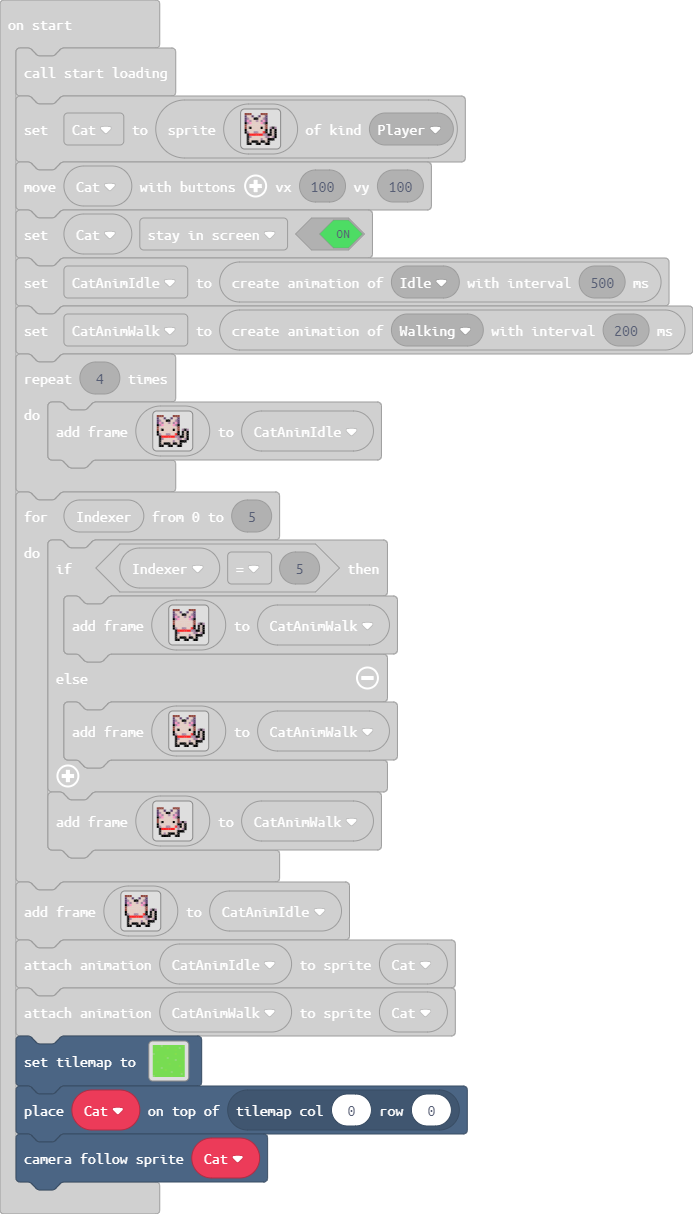
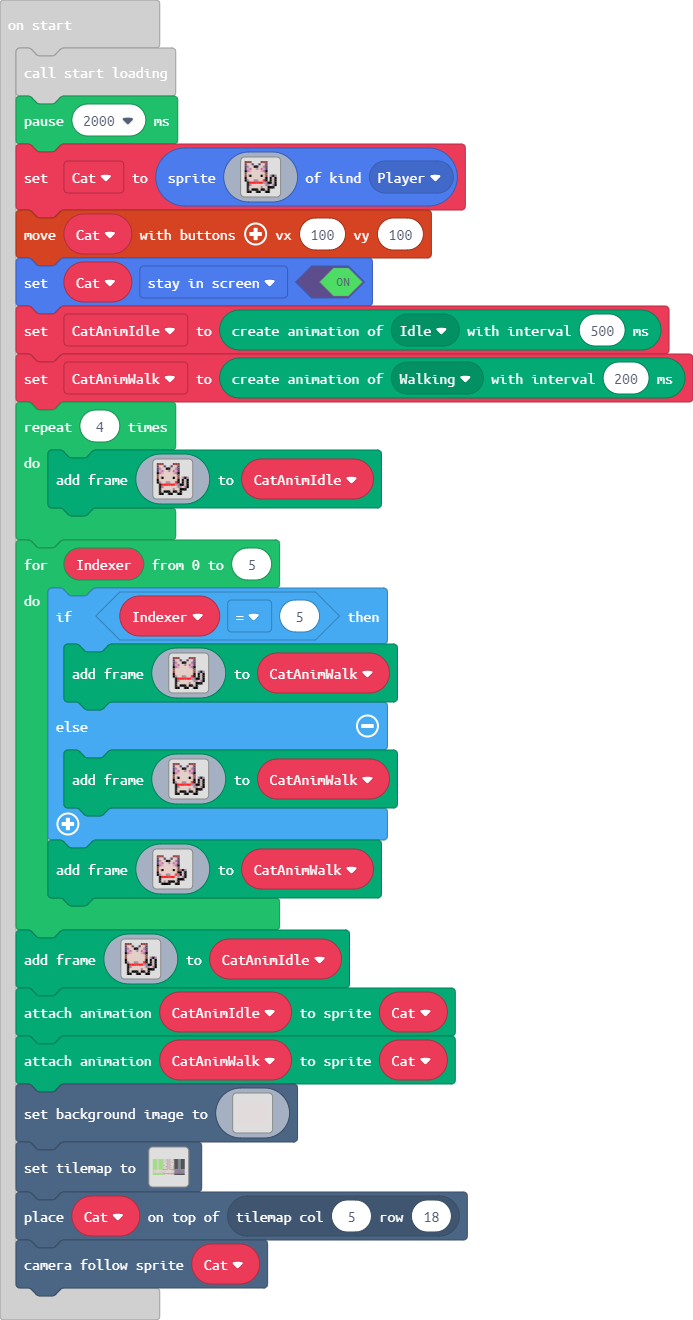
Update main.blocks, main.ts

diff --git a/main.ts b/main.ts
@@ -45,6 +45,44 @@ namespace myTiles {
 7 7 7 7 7 7 7 7 7 7 7 7 7 7 7 7 
 7 7 7 7 7 7 7 7 7 7 7 7 7 7 7 7 
 `
+    //% blockIdentity=images._tile
+    export const tile2 = img`
+f f f f f f f f f f f f f f f f 
+f f f f f f f f f f f f f f f f 
+f f f f f f f f f f f f f f f f 
+f f f f f f f f f f f f f f f f 
+f f f f f f f f f f f f f f f f 
+f f f f f f f f f f f f f f f f 
+f f f f f f f f f f f f f f f f 
+f f f f f f f f f f f f f f f f 
+f f f f f f f f f f f f f f f f 
+f f f f f f f f f f f f f f f f 
+f f f f f f f f f f f f f f f f 
+f f f f f f f f f f f f f f f f 
+f f f f f f f f f f f f f f f f 
+f f f f f f f f f f f f f f f f 
+f f f f f f f f f f f f f f f f 
+f f f f f f f f f f f f f f f f 
+`
+    //% blockIdentity=images._tile
+    export const tile3 = img`
+d d f f f f f f f f f f f f f f 
+d d d d d f f f f f f f f f f f 
+d f f f f f f f f f f f f f f f 
+d d f f f f f f f f f f f f f f 
+d f f f f f f f f f f f f f f f 
+d f f f f f f f f f f f f f f f 
+d d d f f f f f f f f f f f f f 
+d d f f f f f f f f f f f f f f 
+d f f f f f f f f f f f f f f f 
+d d d d d f f f f f f f f f f f 
+d d d f f f f f f f f f f f f f 
+d d d d f f f f f f f f f f f f 
+d d f f f f f f f f f f f f f f 
+d f f f f f f f f f f f f f f f 
+d d f f f f f f f f f f f f f f 
+d d d d f f f f f f f f f f f f 
+`
 }
 function start_loading () {
     scene.setBackgroundImage(img`
@@ -171,6 +209,7 @@ d d d d d d d d d d d d d d d d d d d d d d d d d d d d d d d d d d d d d d d d 
 `)
 }
 start_loading()
+pause(2000)
 let Cat = sprites.create(img`
 e e e . . . . e e e . . . . 
 c d d c . . c d d c . . . . 
@@ -280,30 +319,160 @@ f b d d b b d d 2 f . f d f
 `)
 animation.attachAnimation(Cat, CatAnimIdle)
 animation.attachAnimation(Cat, CatAnimWalk)
+scene.setBackgroundImage(img`
+d d d d d d d d d d d d d d d d d d d d d d d d d d d d d d d d d d d d d d d d d d d d d d d d d d d d d d d d d d d d d d d d d d d d d d d d d d d d d d d d d d d d d d d d d d d d d d d d d d d d d d d d d d d d d d d d d d d d d d d d d d d d d d d d d d d d d d d d d d d d d d d d d d d d d d d d d d d d d d d d 
+d d d d d d d d d d d d d d d d d d d d d d d d d d d d d d d d d d d d d d d d d d d d d d d d d d d d d d d d d d d d d d d d d d d d d d d d d d d d d d d d d d d d d d d d d d d d d d d d d d d d d d d d d d d d d d d d d d d d d d d d d d d d d d d d d d d d d d d d d d d d d d d d d d d d d d d d d d d d d d d d 
+d d d d d d d d d d d d d d d d d d d d d d d d d d d d d d d d d d d d d d d d d d d d d d d d d d d d d d d d d d d d d d d d d d d d d d d d d d d d d d d d d d d d d d d d d d d d d d d d d d d d d d d d d d d d d d d d d d d d d d d d d d d d d d d d d d d d d d d d d d d d d d d d d d d d d d d d d d d d d d d d 
+d d d d d d d d d d d d d d d d d d d d d d d d d d d d d d d d d d d d d d d d d d d d d d d d d d d d d d d d d d d d d d d d d d d d d d d d d d d d d d d d d d d d d d d d d d d d d d d d d d d d d d d d d d d d d d d d d d d d d d d d d d d d d d d d d d d d d d d d d d d d d d d d d d d d d d d d d d d d d d d d 
+d d d d d d d d d d d d d d d d d d d d d d d d d d d d d d d d d d d d d d d d d d d d d d d d d d d d d d d d d d d d d d d d d d d d d d d d d d d d d d d d d d d d d d d d d d d d d d d d d d d d d d d d d d d d d d d d d d d d d d d d d d d d d d d d d d d d d d d d d d d d d d d d d d d d d d d d d d d d d d d d 
+d d d d d d d d d d d d d d d d d d d d d d d d d d d d d d d d d d d d d d d d d d d d d d d d d d d d d d d d d d d d d d d d d d d d d d d d d d d d d d d d d d d d d d d d d d d d d d d d d d d d d d d d d d d d d d d d d d d d d d d d d d d d d d d d d d d d d d d d d d d d d d d d d d d d d d d d d d d d d d d d 
+d d d d d d d d d d d d d d d d d d d d d d d d d d d d d d d d d d d d d d d d d d d d d d d d d d d d d d d d d d d d d d d d d d d d d d d d d d d d d d d d d d d d d d d d d d d d d d d d d d d d d d d d d d d d d d d d d d d d d d d d d d d d d d d d d d d d d d d d d d d d d d d d d d d d d d d d d d d d d d d d 
+d d d d d d d d d d d d d d d d d d d d d d d d d d d d d d d d d d d d d d d d d d d d d d d d d d d d d d d d d d d d d d d d d d d d d d d d d d d d d d d d d d d d d d d d d d d d d d d d d d d d d d d d d d d d d d d d d d d d d d d d d d d d d d d d d d d d d d d d d d d d d d d d d d d d d d d d d d d d d d d d 
+d d d d d d d d d d d d d d d d d d d d d d d d d d d d d d d d d d d d d d d d d d d d d d d d d d d d d d d d d d d d d d d d d d d d d d d d d d d d d d d d d d d d d d d d d d d d d d d d d d d d d d d d d d d d d d d d d d d d d d d d d d d d d d d d d d d d d d d d d d d d d d d d d d d d d d d d d d d d d d d d 
+d d d d d d d d d d d d d d d d d d d d d d d d d d d d d d d d d d d d d d d d d d d d d d d d d d d d d d d d d d d d d d d d d d d d d d d d d d d d d d d d d d d d d d d d d d d d d d d d d d d d d d d d d d d d d d d d d d d d d d d d d d d d d d d d d d d d d d d d d d d d d d d d d d d d d d d d d d d d d d d d 
+d d d d d d d d d d d d d d d d d d d d d d d d d d d d d d d d d d d d d d d d d d d d d d d d d d d d d d d d d d d d d d d d d d d d d d d d d d d d d d d d d d d d d d d d d d d d d d d d d d d d d d d d d d d d d d d d d d d d d d d d d d d d d d d d d d d d d d d d d d d d d d d d d d d d d d d d d d d d d d d d 
+d d d d d d d d d d d d d d d d d d d d d d d d d d d d d d d d d d d d d d d d d d d d d d d d d d d d d d d d d d d d d d d d d d d d d d d d d d d d d d d d d d d d d d d d d d d d d d d d d d d d d d d d d d d d d d d d d d d d d d d d d d d d d d d d d d d d d d d d d d d d d d d d d d d d d d d d d d d d d d d d 
+d d d d d d d d d d d d d d d d d d d d d d d d d d d d d d d d d d d d d d d d d d d d d d d d d d d d d d d d d d d d d d d d d d d d d d d d d d d d d d d d d d d d d d d d d d d d d d d d d d d d d d d d d d d d d d d d d d d d d d d d d d d d d d d d d d d d d d d d d d d d d d d d d d d d d d d d d d d d d d d d 
+d d d d d d d d d d d d d d d d d d d d d d d d d d d d d d d d d d d d d d d d d d d d d d d d d d d d d d d d d d d d d d d d d d d d d d d d d d d d d d d d d d d d d d d d d d d d d d d d d d d d d d d d d d d d d d d d d d d d d d d d d d d d d d d d d d d d d d d d d d d d d d d d d d d d d d d d d d d d d d d d 
+d d d d d d d d d d d d d d d d d d d d d d d d d d d d d d d d d d d d d d d d d d d d d d d d d d d d d d d d d d d d d d d d d d d d d d d d d d d d d d d d d d d d d d d d d d d d d d d d d d d d d d d d d d d d d d d d d d d d d d d d d d d d d d d d d d d d d d d d d d d d d d d d d d d d d d d d d d d d d d d d 
+d d d d d d d d d d d d d d d d d d d d d d d d d d d d d d d d d d d d d d d d d d d d d d d d d d d d d d d d d d d d d d d d d d d d d d d d d d d d d d d d d d d d d d d d d d d d d d d d d d d d d d d d d d d d d d d d d d d d d d d d d d d d d d d d d d d d d d d d d d d d d d d d d d d d d d d d d d d d d d d d 
+d d d d d d d d d d d d d d d d d d d d d d d d d d d d d d d d d d d d d d d d d d d d d d d d d d d d d d d d d d d d d d d d d d d d d d d d d d d d d d d d d d d d d d d d d d d d d d d d d d d d d d d d d d d d d d d d d d d d d d d d d d d d d d d d d d d d d d d d d d d d d d d d d d d d d d d d d d d d d d d d 
+d d d d d d d d d d d d d d d d d d d d d d d d d d d d d d d d d d d d d d d d d d d d d d d d d d d d d d d d d d d d d d d d d d d d d d d d d d d d d d d d d d d d d d d d d d d d d d d d d d d d d d d d d d d d d d d d d d d d d d d d d d d d d d d d d d d d d d d d d d d d d d d d d d d d d d d d d d d d d d d d 
+d d d d d d d d d d d d d d d d d d d d d d d d d d d d d d d d d d d d d d d d d d d d d d d d d d d d d d d d d d d d d d d d d d d d d d d d d d d d d d d d d d d d d d d d d d d d d d d d d d d d d d d d d d d d d d d d d d d d d d d d d d d d d d d d d d d d d d d d d d d d d d d d d d d d d d d d d d d d d d d d 
+d d d d d d d d d d d d d d d d d d d d d d d d d d d d d d d d d d d d d d d d d d d d d d d d d d d d d d d d d d d d d d d d d d d d d d d d d d d d d d d d d d d d d d d d d d d d d d d d d d d d d d d d d d d d d d d d d d d d d d d d d d d d d d d d d d d d d d d d d d d d d d d d d d d d d d d d d d d d d d d d 
+d d d d d d d d d d d d d d d d d d d d d d d d d d d d d d d d d d d d d d d d d d d d d d d d d d d d d d d d d d d d d d d d d d d d d d d d d d d d d d d d d d d d d d d d d d d d d d d d d d d d d d d d d d d d d d d d d d d d d d d d d d d d d d d d d d d d d d d d d d d d d d d d d d d d d d d d d d d d d d d d 
+d d d d d d d d d d d d d d d d d d d d d d d d d d d d d d d d d d d d d d d d d d d d d d d d d d d d d d d d d d d d d d d d d d d d d d d d d d d d d d d d d d d d d d d d d d d d d d d d d d d d d d d d d d d d d d d d d d d d d d d d d d d d d d d d d d d d d d d d d d d d d d d d d d d d d d d d d d d d d d d d 
+d d d d d d d d d d d d d d d d d d d d d d d d d d d d d d d d d d d d d d d d d d d d d d d d d d d d d d d d d d d d d d d d d d d d d d d d d d d d d d d d d d d d d d d d d d d d d d d d d d d d d d d d d d d d d d d d d d d d d d d d d d d d d d d d d d d d d d d d d d d d d d d d d d d d d d d d d d d d d d d d 
+d d d d d d d d d d d d d d d d d d d d d d d d d d d d d d d d d d d d d d d d d d d d d d d d d d d d d d d d d d d d d d d d d d d d d d d d d d d d d d d d d d d d d d d d d d d d d d d d d d d d d d d d d d d d d d d d d d d d d d d d d d d d d d d d d d d d d d d d d d d d d d d d d d d d d d d d d d d d d d d d 
+d d d d d d d d d d d d d d d d d d d d d d d d d d d d d d d d d d d d d d d d d d d d d d d d d d d d d d d d d d d d d d d d d d d d d d d d d d d d d d d d d d d d d d d d d d d d d d d d d d d d d d d d d d d d d d d d d d d d d d d d d d d d d d d d d d d d d d d d d d d d d d d d d d d d d d d d d d d d d d d d 
+d d d d d d d d d d d d d d d d d d d d d d d d d d d d d d d d d d d d d d d d d d d d d d d d d d d d d d d d d d d d d d d d d d d d d d d d d d d d d d d d d d d d d d d d d d d d d d d d d d d d d d d d d d d d d d d d d d d d d d d d d d d d d d d d d d d d d d d d d d d d d d d d d d d d d d d d d d d d d d d d 
+d d d d d d d d d d d d d d d d d d d d d d d d d d d d d d d d d d d d d d d d d d d d d d d d d d d d d d d d d d d d d d d d d d d d d d d d d d d d d d d d d d d d d d d d d d d d d d d d d d d d d d d d d d d d d d d d d d d d d d d d d d d d d d d d d d d d d d d d d d d d d d d d d d d d d d d d d d d d d d d d 
+d d d d d d d d d d d d d d d d d d d d d d d d d d d d d d d d d d d d d d d d d d d d d d d d d d d d d d d d d d d d d d d d d d d d d d d d d d d d d d d d d d d d d d d d d d d d d d d d d d d d d d d d d d d d d d d d d d d d d d d d d d d d d d d d d d d d d d d d d d d d d d d d d d d d d d d d d d d d d d d d 
+d d d d d d d d d d d d d d d d d d d d d d d d d d d d d d d d d d d d d d d d d d d d d d d d d d d d d d d d d d d d d d d d d d d d d d d d d d d d d d d d d d d d d d d d d d d d d d d d d d d d d d d d d d d d d d d d d d d d d d d d d d d d d d d d d d d d d d d d d d d d d d d d d d d d d d d d d d d d d d d d 
+d d d d d d d d d d d d d d d d d d d d d d d d d d d d d d d d d d d d d d d d d d d d d d d d d d d d d d d d d d d d d d d d d d d d d d d d d d d d d d d d d d d d d d d d d d d d d d d d d d d d d d d d d d d d d d d d d d d d d d d d d d d d d d d d d d d d d d d d d d d d d d d d d d d d d d d d d d d d d d d d 
+d d d d d d d d d d d d d d d d d d d d d d d d d d d d d d d d d d d d d d d d d d d d d d d d d d d d d d d d d d d d d d d d d d d d d d d d d d d d d d d d d d d d d d d d d d d d d d d d d d d d d d d d d d d d d d d d d d d d d d d d d d d d d d d d d d d d d d d d d d d d d d d d d d d d d d d d d d d d d d d d 
+d d d d d d d d d d d d d d d d d d d d d d d d d d d d d d d d d d d d d d d d d d d d d d d d d d d d d d d d d d d d d d d d d d d d d d d d d d d d d d d d d d d d d d d d d d d d d d d d d d d d d d d d d d d d d d d d d d d d d d d d d d d d d d d d d d d d d d d d d d d d d d d d d d d d d d d d d d d d d d d d 
+d d d d d d d d d d d d d d d d d d d d d d d d d d d d d d d d d d d d d d d d d d d d d d d d d d d d d d d d d d d d d d d d d d d d d d d d d d d d d d d d d d d d d d d d d d d d d d d d d d d d d d d d d d d d d d d d d d d d d d d d d d d d d d d d d d d d d d d d d d d d d d d d d d d d d d d d d d d d d d d d 
+d d d d d d d d d d d d d d d d d d d d d d d d d d d d d d d d d d d d d d d d d d d d d d d d d d d d d d d d d d d d d d d d d d d d d d d d d d d d d d d d d d d d d d d d d d d d d d d d d d d d d d d d d d d d d d d d d d d d d d d d d d d d d d d d d d d d d d d d d d d d d d d d d d d d d d d d d d d d d d d d 
+d d d d d d d d d d d d d d d d d d d d d d d d d d d d d d d d d d d d d d d d d d d d d d d d d d d d d d d d d d d d d d d d d d d d d d d d d d d d d d d d d d d d d d d d d d d d d d d d d d d d d d d d d d d d d d d d d d d d d d d d d d d d d d d d d d d d d d d d d d d d d d d d d d d d d d d d d d d d d d d d 
+d d d d d d d d d d d d d d d d d d d d d d d d d d d d d d d d d d d d d d d d d d d d d d d d d d d d d d d d d d d d d d d d d d d d d d d d d d d d d d d d d d d d d d d d d d d d d d d d d d d d d d d d d d d d d d d d d d d d d d d d d d d d d d d d d d d d d d d d d d d d d d d d d d d d d d d d d d d d d d d d 
+d d d d d d d d d d d d d d d d d d d d d d d d d d d d d d d d d d d d d d d d d d d d d d d d d d d d d d d d d d d d d d d d d d d d d d d d d d d d d d d d d d d d d d d d d d d d d d d d d d d d d d d d d d d d d d d d d d d d d d d d d d d d d d d d d d d d d d d d d d d d d d d d d d d d d d d d d d d d d d d d 
+d d d d d d d d d d d d d d d d d d d d d d d d d d d d d d d d d d d d d d d d d d d d d d d d d d d d d d d d d d d d d d d d d d d d d d d d d d d d d d d d d d d d d d d d d d d d d d d d d d d d d d d d d d d d d d d d d d d d d d d d d d d d d d d d d d d d d d d d d d d d d d d d d d d d d d d d d d d d d d d d 
+d d d d d d d d d d d d d d d d d d d d d d d d d d d d d d d d d d d d d d d d d d d d d d d d d d d d d d d d d d d d d d d d d d d d d d d d d d d d d d d d d d d d d d d d d d d d d d d d d d d d d d d d d d d d d d d d d d d d d d d d d d d d d d d d d d d d d d d d d d d d d d d d d d d d d d d d d d d d d d d d 
+d d d d d d d d d d d d d d d d d d d d d d d d d d d d d d d d d d d d d d d d d d d d d d d d d d d d d d d d d d d d d d d d d d d d d d d d d d d d d d d d d d d d d d d d d d d d d d d d d d d d d d d d d d d d d d d d d d d d d d d d d d d d d d d d d d d d d d d d d d d d d d d d d d d d d d d d d d d d d d d d 
+d d d d d d d d d d d d d d d d d d d d d d d d d d d d d d d d d d d d d d d d d d d d d d d d d d d d d d d d d d d d d d d d d d d d d d d d d d d d d d d d d d d d d d d d d d d d d d d d d d d d d d d d d d d d d d d d d d d d d d d d d d d d d d d d d d d d d d d d d d d d d d d d d d d d d d d d d d d d d d d d 
+d d d d d d d d d d d d d d d d d d d d d d d d d d d d d d d d d d d d d d d d d d d d d d d d d d d d d d d d d d d d d d d d d d d d d d d d d d d d d d d d d d d d d d d d d d d d d d d d d d d d d d d d d d d d d d d d d d d d d d d d d d d d d d d d d d d d d d d d d d d d d d d d d d d d d d d d d d d d d d d d 
+d d d d d d d d d d d d d d d d d d d d d d d d d d d d d d d d d d d d d d d d d d d d d d d d d d d d d d d d d d d d d d d d d d d d d d d d d d d d d d d d d d d d d d d d d d d d d d d d d d d d d d d d d d d d d d d d d d d d d d d d d d d d d d d d d d d d d d d d d d d d d d d d d d d d d d d d d d d d d d d d 
+d d d d d d d d d d d d d d d d d d d d d d d d d d d d d d d d d d d d d d d d d d d d d d d d d d d d d d d d d d d d d d d d d d d d d d d d d d d d d d d d d d d d d d d d d d d d d d d d d d d d d d d d d d d d d d d d d d d d d d d d d d d d d d d d d d d d d d d d d d d d d d d d d d d d d d d d d d d d d d d d 
+d d d d d d d d d d d d d d d d d d d d d d d d d d d d d d d d d d d d d d d d d d d d d d d d d d d d d d d d d d d d d d d d d d d d d d d d d d d d d d d d d d d d d d d d d d d d d d d d d d d d d d d d d d d d d d d d d d d d d d d d d d d d d d d d d d d d d d d d d d d d d d d d d d d d d d d d d d d d d d d d 
+d d d d d d d d d d d d d d d d d d d d d d d d d d d d d d d d d d d d d d d d d d d d d d d d d d d d d d d d d d d d d d d d d d d d d d d d d d d d d d d d d d d d d d d d d d d d d d d d d d d d d d d d d d d d d d d d d d d d d d d d d d d d d d d d d d d d d d d d d d d d d d d d d d d d d d d d d d d d d d d d 
+d d d d d d d d d d d d d d d d d d d d d d d d d d d d d d d d d d d d d d d d d d d d d d d d d d d d d d d d d d d d d d d d d d d d d d d d d d d d d d d d d d d d d d d d d d d d d d d d d d d d d d d d d d d d d d d d d d d d d d d d d d d d d d d d d d d d d d d d d d d d d d d d d d d d d d d d d d d d d d d d 
+d d d d d d d d d d d d d d d d d d d d d d d d d d d d d d d d d d d d d d d d d d d d d d d d d d d d d d d d d d d d d d d d d d d d d d d d d d d d d d d d d d d d d d d d d d d d d d d d d d d d d d d d d d d d d d d d d d d d d d d d d d d d d d d d d d d d d d d d d d d d d d d d d d d d d d d d d d d d d d d d 
+d d d d d d d d d d d d d d d d d d d d d d d d d d d d d d d d d d d d d d d d d d d d d d d d d d d d d d d d d d d d d d d d d d d d d d d d d d d d d d d d d d d d d d d d d d d d d d d d d d d d d d d d d d d d d d d d d d d d d d d d d d d d d d d d d d d d d d d d d d d d d d d d d d d d d d d d d d d d d d d d 
+d d d d d d d d d d d d d d d d d d d d d d d d d d d d d d d d d d d d d d d d d d d d d d d d d d d d d d d d d d d d d d d d d d d d d d d d d d d d d d d d d d d d d d d d d d d d d d d d d d d d d d d d d d d d d d d d d d d d d d d d d d d d d d d d d d d d d d d d d d d d d d d d d d d d d d d d d d d d d d d d 
+d d d d d d d d d d d d d d d d d d d d d d d d d d d d d d d d d d d d d d d d d d d d d d d d d d d d d d d d d d d d d d d d d d d d d d d d d d d d d d d d d d d d d d d d d d d d d d d d d d d d d d d d d d d d d d d d d d d d d d d d d d d d d d d d d d d d d d d d d d d d d d d d d d d d d d d d d d d d d d d d 
+d d d d d d d d d d d d d d d d d d d d d d d d d d d d d d d d d d d d d d d d d d d d d d d d d d d d d d d d d d d d d d d d d d d d d d d d d d d d d d d d d d d d d d d d d d d d d d d d d d d d d d d d d d d d d d d d d d d d d d d d d d d d d d d d d d d d d d d d d d d d d d d d d d d d d d d d d d d d d d d d 
+d d d d d d d d d d d d d d d d d d d d d d d d d d d d d d d d d d d d d d d d d d d d d d d d d d d d d d d d d d d d d d d d d d d d d d d d d d d d d d d d d d d d d d d d d d d d d d d d d d d d d d d d d d d d d d d d d d d d d d d d d d d d d d d d d d d d d d d d d d d d d d d d d d d d d d d d d d d d d d d d 
+d d d d d d d d d d d d d d d d d d d d d d d d d d d d d d d d d d d d d d d d d d d d d d d d d d d d d d d d d d d d d d d d d d d d d d d d d d d d d d d d d d d d d d d d d d d d d d d d d d d d d d d d d d d d d d d d d d d d d d d d d d d d d d d d d d d d d d d d d d d d d d d d d d d d d d d d d d d d d d d d 
+d d d d d d d d d d d d d d d d d d d d d d d d d d d d d d d d d d d d d d d d d d d d d d d d d d d d d d d d d d d d d d d d d d d d d d d d d d d d d d d d d d d d d d d d d d d d d d d d d d d d d d d d d d d d d d d d d d d d d d d d d d d d d d d d d d d d d d d d d d d d d d d d d d d d d d d d d d d d d d d d 
+d d d d d d d d d d d d d d d d d d d d d d d d d d d d d d d d d d d d d d d d d d d d d d d d d d d d d d d d d d d d d d d d d d d d d d d d d d d d d d d d d d d d d d d d d d d d d d d d d d d d d d d d d d d d d d d d d d d d d d d d d d d d d d d d d d d d d d d d d d d d d d d d d d d d d d d d d d d d d d d d 
+d d d d d d d d d d d d d d d d d d d d d d d d d d d d d d d d d d d d d d d d d d d d d d d d d d d d d d d d d d d d d d d d d d d d d d d d d d d d d d d d d d d d d d d d d d d d d d d d d d d d d d d d d d d d d d d d d d d d d d d d d d d d d d d d d d d d d d d d d d d d d d d d d d d d d d d d d d d d d d d d 
+d d d d d d d d d d d d d d d d d d d d d d d d d d d d d d d d d d d d d d d d d d d d d d d d d d d d d d d d d d d d d d d d d d d d d d d d d d d d d d d d d d d d d d d d d d d d d d d d d d d d d d d d d d d d d d d d d d d d d d d d d d d d d d d d d d d d d d d d d d d d d d d d d d d d d d d d d d d d d d d d 
+d d d d d d d d d d d d d d d d d d d d d d d d d d d d d d d d d d d d d d d d d d d d d d d d d d d d d d d d d d d d d d d d d d d d d d d d d d d d d d d d d d d d d d d d d d d d d d d d d d d d d d d d d d d d d d d d d d d d d d d d d d d d d d d d d d d d d d d d d d d d d d d d d d d d d d d d d d d d d d d d 
+d d d d d d d d d d d d d d d d d d d d d d d d d d d d d d d d d d d d d d d d d d d d d d d d d d d d d d d d d d d d d d d d d d d d d d d d d d d d d d d d d d d d d d d d d d d d d d d d d d d d d d d d d d d d d d d d d d d d d d d d d d d d d d d d d d d d d d d d d d d d d d d d d d d d d d d d d d d d d d d d 
+d d d d d d d d d d d d d d d d d d d d d d d d d d d d d d d d d d d d d d d d d d d d d d d d d d d d d d d d d d d d d d d d d d d d d d d d d d d d d d d d d d d d d d d d d d d d d d d d d d d d d d d d d d d d d d d d d d d d d d d d d d d d d d d d d d d d d d d d d d d d d d d d d d d d d d d d d d d d d d d d 
+d d d d d d d d d d d d d d d d d d d d d d d d d d d d d d d d d d d d d d d d d d d d d d d d d d d d d d d d d d d d d d d d d d d d d d d d d d d d d d d d d d d d d d d d d d d d d d d d d d d d d d d d d d d d d d d d d d d d d d d d d d d d d d d d d d d d d d d d d d d d d d d d d d d d d d d d d d d d d d d d 
+d d d d d d d d d d d d d d d d d d d d d d d d d d d d d d d d d d d d d d d d d d d d d d d d d d d d d d d d d d d d d d d d d d d d d d d d d d d d d d d d d d d d d d d d d d d d d d d d d d d d d d d d d d d d d d d d d d d d d d d d d d d d d d d d d d d d d d d d d d d d d d d d d d d d d d d d d d d d d d d d 
+d d d d d d d d d d d d d d d d d d d d d d d d d d d d d d d d d d d d d d d d d d d d d d d d d d d d d d d d d d d d d d d d d d d d d d d d d d d d d d d d d d d d d d d d d d d d d d d d d d d d d d d d d d d d d d d d d d d d d d d d d d d d d d d d d d d d d d d d d d d d d d d d d d d d d d d d d d d d d d d d 
+d d d d d d d d d d d d d d d d d d d d d d d d d d d d d d d d d d d d d d d d d d d d d d d d d d d d d d d d d d d d d d d d d d d d d d d d d d d d d d d d d d d d d d d d d d d d d d d d d d d d d d d d d d d d d d d d d d d d d d d d d d d d d d d d d d d d d d d d d d d d d d d d d d d d d d d d d d d d d d d d 
+d d d d d d d d d d d d d d d d d d d d d d d d d d d d d d d d d d d d d d d d d d d d d d d d d d d d d d d d d d d d d d d d d d d d d d d d d d d d d d d d d d d d d d d d d d d d d d d d d d d d d d d d d d d d d d d d d d d d d d d d d d d d d d d d d d d d d d d d d d d d d d d d d d d d d d d d d d d d d d d d 
+d d d d d d d d d d d d d d d d d d d d d d d d d d d d d d d d d d d d d d d d d d d d d d d d d d d d d d d d d d d d d d d d d d d d d d d d d d d d d d d d d d d d d d d d d d d d d d d d d d d d d d d d d d d d d d d d d d d d d d d d d d d d d d d d d d d d d d d d d d d d d d d d d d d d d d d d d d d d d d d d 
+d d d d d d d d d d d d d d d d d d d d d d d d d d d d d d d d d d d d d d d d d d d d d d d d d d d d d d d d d d d d d d d d d d d d d d d d d d d d d d d d d d d d d d d d d d d d d d d d d d d d d d d d d d d d d d d d d d d d d d d d d d d d d d d d d d d d d d d d d d d d d d d d d d d d d d d d d d d d d d d d 
+d d d d d d d d d d d d d d d d d d d d d d d d d d d d d d d d d d d d d d d d d d d d d d d d d d d d d d d d d d d d d d d d d d d d d d d d d d d d d d d d d d d d d d d d d d d d d d d d d d d d d d d d d d d d d d d d d d d d d d d d d d d d d d d d d d d d d d d d d d d d d d d d d d d d d d d d d d d d d d d d 
+d d d d d d d d d d d d d d d d d d d d d d d d d d d d d d d d d d d d d d d d d d d d d d d d d d d d d d d d d d d d d d d d d d d d d d d d d d d d d d d d d d d d d d d d d d d d d d d d d d d d d d d d d d d d d d d d d d d d d d d d d d d d d d d d d d d d d d d d d d d d d d d d d d d d d d d d d d d d d d d d 
+d d d d d d d d d d d d d d d d d d d d d d d d d d d d d d d d d d d d d d d d d d d d d d d d d d d d d d d d d d d d d d d d d d d d d d d d d d d d d d d d d d d d d d d d d d d d d d d d d d d d d d d d d d d d d d d d d d d d d d d d d d d d d d d d d d d d d d d d d d d d d d d d d d d d d d d d d d d d d d d d 
+d d d d d d d d d d d d d d d d d d d d d d d d d d d d d d d d d d d d d d d d d d d d d d d d d d d d d d d d d d d d d d d d d d d d d d d d d d d d d d d d d d d d d d d d d d d d d d d d d d d d d d d d d d d d d d d d d d d d d d d d d d d d d d d d d d d d d d d d d d d d d d d d d d d d d d d d d d d d d d d d 
+d d d d d d d d d d d d d d d d d d d d d d d d d d d d d d d d d d d d d d d d d d d d d d d d d d d d d d d d d d d d d d d d d d d d d d d d d d d d d d d d d d d d d d d d d d d d d d d d d d d d d d d d d d d d d d d d d d d d d d d d d d d d d d d d d d d d d d d d d d d d d d d d d d d d d d d d d d d d d d d d 
+d d d d d d d d d d d d d d d d d d d d d d d d d d d d d d d d d d d d d d d d d d d d d d d d d d d d d d d d d d d d d d d d d d d d d d d d d d d d d d d d d d d d d d d d d d d d d d d d d d d d d d d d d d d d d d d d d d d d d d d d d d d d d d d d d d d d d d d d d d d d d d d d d d d d d d d d d d d d d d d d 
+d d d d d d d d d d d d d d d d d d d d d d d d d d d d d d d d d d d d d d d d d d d d d d d d d d d d d d d d d d d d d d d d d d d d d d d d d d d d d d d d d d d d d d d d d d d d d d d d d d d d d d d d d d d d d d d d d d d d d d d d d d d d d d d d d d d d d d d d d d d d d d d d d d d d d d d d d d d d d d d d 
+d d d d d d d d d d d d d d d d d d d d d d d d d d d d d d d d d d d d d d d d d d d d d d d d d d d d d d d d d d d d d d d d d d d d d d d d d d d d d d d d d d d d d d d d d d d d d d d d d d d d d d d d d d d d d d d d d d d d d d d d d d d d d d d d d d d d d d d d d d d d d d d d d d d d d d d d d d d d d d d d 
+d d d d d d d d d d d d d d d d d d d d d d d d d d d d d d d d d d d d d d d d d d d d d d d d d d d d d d d d d d d d d d d d d d d d d d d d d d d d d d d d d d d d d d d d d d d d d d d d d d d d d d d d d d d d d d d d d d d d d d d d d d d d d d d d d d d d d d d d d d d d d d d d d d d d d d d d d d d d d d d d 
+d d d d d d d d d d d d d d d d d d d d d d d d d d d d d d d d d d d d d d d d d d d d d d d d d d d d d d d d d d d d d d d d d d d d d d d d d d d d d d d d d d d d d d d d d d d d d d d d d d d d d d d d d d d d d d d d d d d d d d d d d d d d d d d d d d d d d d d d d d d d d d d d d d d d d d d d d d d d d d d d 
+d d d d d d d d d d d d d d d d d d d d d d d d d d d d d d d d d d d d d d d d d d d d d d d d d d d d d d d d d d d d d d d d d d d d d d d d d d d d d d d d d d d d d d d d d d d d d d d d d d d d d d d d d d d d d d d d d d d d d d d d d d d d d d d d d d d d d d d d d d d d d d d d d d d d d d d d d d d d d d d d 
+d d d d d d d d d d d d d d d d d d d d d d d d d d d d d d d d d d d d d d d d d d d d d d d d d d d d d d d d d d d d d d d d d d d d d d d d d d d d d d d d d d d d d d d d d d d d d d d d d d d d d d d d d d d d d d d d d d d d d d d d d d d d d d d d d d d d d d d d d d d d d d d d d d d d d d d d d d d d d d d d 
+d d d d d d d d d d d d d d d d d d d d d d d d d d d d d d d d d d d d d d d d d d d d d d d d d d d d d d d d d d d d d d d d d d d d d d d d d d d d d d d d d d d d d d d d d d d d d d d d d d d d d d d d d d d d d d d d d d d d d d d d d d d d d d d d d d d d d d d d d d d d d d d d d d d d d d d d d d d d d d d d 
+d d d d d d d d d d d d d d d d d d d d d d d d d d d d d d d d d d d d d d d d d d d d d d d d d d d d d d d d d d d d d d d d d d d d d d d d d d d d d d d d d d d d d d d d d d d d d d d d d d d d d d d d d d d d d d d d d d d d d d d d d d d d d d d d d d d d d d d d d d d d d d d d d d d d d d d d d d d d d d d d 
+d d d d d d d d d d d d d d d d d d d d d d d d d d d d d d d d d d d d d d d d d d d d d d d d d d d d d d d d d d d d d d d d d d d d d d d d d d d d d d d d d d d d d d d d d d d d d d d d d d d d d d d d d d d d d d d d d d d d d d d d d d d d d d d d d d d d d d d d d d d d d d d d d d d d d d d d d d d d d d d d 
+d d d d d d d d d d d d d d d d d d d d d d d d d d d d d d d d d d d d d d d d d d d d d d d d d d d d d d d d d d d d d d d d d d d d d d d d d d d d d d d d d d d d d d d d d d d d d d d d d d d d d d d d d d d d d d d d d d d d d d d d d d d d d d d d d d d d d d d d d d d d d d d d d d d d d d d d d d d d d d d d 
+d d d d d d d d d d d d d d d d d d d d d d d d d d d d d d d d d d d d d d d d d d d d d d d d d d d d d d d d d d d d d d d d d d d d d d d d d d d d d d d d d d d d d d d d d d d d d d d d d d d d d d d d d d d d d d d d d d d d d d d d d d d d d d d d d d d d d d d d d d d d d d d d d d d d d d d d d d d d d d d d 
+d d d d d d d d d d d d d d d d d d d d d d d d d d d d d d d d d d d d d d d d d d d d d d d d d d d d d d d d d d d d d d d d d d d d d d d d d d d d d d d d d d d d d d d d d d d d d d d d d d d d d d d d d d d d d d d d d d d d d d d d d d d d d d d d d d d d d d d d d d d d d d d d d d d d d d d d d d d d d d d d 
+d d d d d d d d d d d d d d d d d d d d d d d d d d d d d d d d d d d d d d d d d d d d d d d d d d d d d d d d d d d d d d d d d d d d d d d d d d d d d d d d d d d d d d d d d d d d d d d d d d d d d d d d d d d d d d d d d d d d d d d d d d d d d d d d d d d d d d d d d d d d d d d d d d d d d d d d d d d d d d d d 
+d d d d d d d d d d d d d d d d d d d d d d d d d d d d d d d d d d d d d d d d d d d d d d d d d d d d d d d d d d d d d d d d d d d d d d d d d d d d d d d d d d d d d d d d d d d d d d d d d d d d d d d d d d d d d d d d d d d d d d d d d d d d d d d d d d d d d d d d d d d d d d d d d d d d d d d d d d d d d d d d 
+d d d d d d d d d d d d d d d d d d d d d d d d d d d d d d d d d d d d d d d d d d d d d d d d d d d d d d d d d d d d d d d d d d d d d d d d d d d d d d d d d d d d d d d d d d d d d d d d d d d d d d d d d d d d d d d d d d d d d d d d d d d d d d d d d d d d d d d d d d d d d d d d d d d d d d d d d d d d d d d d 
+d d d d d d d d d d d d d d d d d d d d d d d d d d d d d d d d d d d d d d d d d d d d d d d d d d d d d d d d d d d d d d d d d d d d d d d d d d d d d d d d d d d d d d d d d d d d d d d d d d d d d d d d d d d d d d d d d d d d d d d d d d d d d d d d d d d d d d d d d d d d d d d d d d d d d d d d d d d d d d d d 
+d d d d d d d d d d d d d d d d d d d d d d d d d d d d d d d d d d d d d d d d d d d d d d d d d d d d d d d d d d d d d d d d d d d d d d d d d d d d d d d d d d d d d d d d d d d d d d d d d d d d d d d d d d d d d d d d d d d d d d d d d d d d d d d d d d d d d d d d d d d d d d d d d d d d d d d d d d d d d d d d 
+d d d d d d d d d d d d d d d d d d d d d d d d d d d d d d d d d d d d d d d d d d d d d d d d d d d d d d d d d d d d d d d d d d d d d d d d d d d d d d d d d d d d d d d d d d d d d d d d d d d d d d d d d d d d d d d d d d d d d d d d d d d d d d d d d d d d d d d d d d d d d d d d d d d d d d d d d d d d d d d d 
+d d d d d d d d d d d d d d d d d d d d d d d d d d d d d d d d d d d d d d d d d d d d d d d d d d d d d d d d d d d d d d d d d d d d d d d d d d d d d d d d d d d d d d d d d d d d d d d d d d d d d d d d d d d d d d d d d d d d d d d d d d d d d d d d d d d d d d d d d d d d d d d d d d d d d d d d d d d d d d d d 
+d d d d d d d d d d d d d d d d d d d d d d d d d d d d d d d d d d d d d d d d d d d d d d d d d d d d d d d d d d d d d d d d d d d d d d d d d d d d d d d d d d d d d d d d d d d d d d d d d d d d d d d d d d d d d d d d d d d d d d d d d d d d d d d d d d d d d d d d d d d d d d d d d d d d d d d d d d d d d d d d 
+d d d d d d d d d d d d d d d d d d d d d d d d d d d d d d d d d d d d d d d d d d d d d d d d d d d d d d d d d d d d d d d d d d d d d d d d d d d d d d d d d d d d d d d d d d d d d d d d d d d d d d d d d d d d d d d d d d d d d d d d d d d d d d d d d d d d d d d d d d d d d d d d d d d d d d d d d d d d d d d d 
+d d d d d d d d d d d d d d d d d d d d d d d d d d d d d d d d d d d d d d d d d d d d d d d d d d d d d d d d d d d d d d d d d d d d d d d d d d d d d d d d d d d d d d d d d d d d d d d d d d d d d d d d d d d d d d d d d d d d d d d d d d d d d d d d d d d d d d d d d d d d d d d d d d d d d d d d d d d d d d d d 
+d d d d d d d d d d d d d d d d d d d d d d d d d d d d d d d d d d d d d d d d d d d d d d d d d d d d d d d d d d d d d d d d d d d d d d d d d d d d d d d d d d d d d d d d d d d d d d d d d d d d d d d d d d d d d d d d d d d d d d d d d d d d d d d d d d d d d d d d d d d d d d d d d d d d d d d d d d d d d d d d 
+d d d d d d d d d d d d d d d d d d d d d d d d d d d d d d d d d d d d d d d d d d d d d d d d d d d d d d d d d d d d d d d d d d d d d d d d d d d d d d d d d d d d d d d d d d d d d d d d d d d d d d d d d d d d d d d d d d d d d d d d d d d d d d d d d d d d d d d d d d d d d d d d d d d d d d d d d d d d d d d d 
+d d d d d d d d d d d d d d d d d d d d d d d d d d d d d d d d d d d d d d d d d d d d d d d d d d d d d d d d d d d d d d d d d d d d d d d d d d d d d d d d d d d d d d d d d d d d d d d d d d d d d d d d d d d d d d d d d d d d d d d d d d d d d d d d d d d d d d d d d d d d d d d d d d d d d d d d d d d d d d d d 
+d d d d d d d d d d d d d d d d d d d d d d d d d d d d d d d d d d d d d d d d d d d d d d d d d d d d d d d d d d d d d d d d d d d d d d d d d d d d d d d d d d d d d d d d d d d d d d d d d d d d d d d d d d d d d d d d d d d d d d d d d d d d d d d d d d d d d d d d d d d d d d d d d d d d d d d d d d d d d d d d 
+d d d d d d d d d d d d d d d d d d d d d d d d d d d d d d d d d d d d d d d d d d d d d d d d d d d d d d d d d d d d d d d d d d d d d d d d d d d d d d d d d d d d d d d d d d d d d d d d d d d d d d d d d d d d d d d d d d d d d d d d d d d d d d d d d d d d d d d d d d d d d d d d d d d d d d d d d d d d d d d d 
+d d d d d d d d d d d d d d d d d d d d d d d d d d d d d d d d d d d d d d d d d d d d d d d d d d d d d d d d d d d d d d d d d d d d d d d d d d d d d d d d d d d d d d d d d d d d d d d d d d d d d d d d d d d d d d d d d d d d d d d d d d d d d d d d d d d d d d d d d d d d d d d d d d d d d d d d d d d d d d d d 
+d d d d d d d d d d d d d d d d d d d d d d d d d d d d d d d d d d d d d d d d d d d d d d d d d d d d d d d d d d d d d d d d d d d d d d d d d d d d d d d d d d d d d d d d d d d d d d d d d d d d d d d d d d d d d d d d d d d d d d d d d d d d d d d d d d d d d d d d d d d d d d d d d d d d d d d d d d d d d d d d 
+d d d d d d d d d d d d d d d d d d d d d d d d d d d d d d d d d d d d d d d d d d d d d d d d d d d d d d d d d d d d d d d d d d d d d d d d d d d d d d d d d d d d d d d d d d d d d d d d d d d d d d d d d d d d d d d d d d d d d d d d d d d d d d d d d d d d d d d d d d d d d d d d d d d d d d d d d d d d d d d d 
+d d d d d d d d d d d d d d d d d d d d d d d d d d d d d d d d d d d d d d d d d d d d d d d d d d d d d d d d d d d d d d d d d d d d d d d d d d d d d d d d d d d d d d d d d d d d d d d d d d d d d d d d d d d d d d d d d d d d d d d d d d d d d d d d d d d d d d d d d d d d d d d d d d d d d d d d d d d d d d d d 
+d d d d d d d d d d d d d d d d d d d d d d d d d d d d d d d d d d d d d d d d d d d d d d d d d d d d d d d d d d d d d d d d d d d d d d d d d d d d d d d d d d d d d d d d d d d d d d d d d d d d d d d d d d d d d d d d d d d d d d d d d d d d d d d d d d d d d d d d d d d d d d d d d d d d d d d d d d d d d d d d 
+d d d d d d d d d d d d d d d d d d d d d d d d d d d d d d d d d d d d d d d d d d d d d d d d d d d d d d d d d d d d d d d d d d d d d d d d d d d d d d d d d d d d d d d d d d d d d d d d d d d d d d d d d d d d d d d d d d d d d d d d d d d d d d d d d d d d d d d d d d d d d d d d d d d d d d d d d d d d d d d d 
+d d d d d d d d d d d d d d d d d d d d d d d d d d d d d d d d d d d d d d d d d d d d d d d d d d d d d d d d d d d d d d d d d d d d d d d d d d d d d d d d d d d d d d d d d d d d d d d d d d d d d d d d d d d d d d d d d d d d d d d d d d d d d d d d d d d d d d d d d d d d d d d d d d d d d d d d d d d d d d d d 
+d d d d d d d d d d d d d d d d d d d d d d d d d d d d d d d d d d d d d d d d d d d d d d d d d d d d d d d d d d d d d d d d d d d d d d d d d d d d d d d d d d d d d d d d d d d d d d d d d d d d d d d d d d d d d d d d d d d d d d d d d d d d d d d d d d d d d d d d d d d d d d d d d d d d d d d d d d d d d d d d 
+d d d d d d d d d d d d d d d d d d d d d d d d d d d d d d d d d d d d d d d d d d d d d d d d d d d d d d d d d d d d d d d d d d d d d d d d d d d d d d d d d d d d d d d d d d d d d d d d d d d d d d d d d d d d d d d d d d d d d d d d d d d d d d d d d d d d d d d d d d d d d d d d d d d d d d d d d d d d d d d d 
+d d d d d d d d d d d d d d d d d d d d d d d d d d d d d d d d d d d d d d d d d d d d d d d d d d d d d d d d d d d d d d d d d d d d d d d d d d d d d d d d d d d d d d d d d d d d d d d d d d d d d d d d d d d d d d d d d d d d d d d d d d d d d d d d d d d d d d d d d d d d d d d d d d d d d d d d d d d d d d d d 
+d d d d d d d d d d d d d d d d d d d d d d d d d d d d d d d d d d d d d d d d d d d d d d d d d d d d d d d d d d d d d d d d d d d d d d d d d d d d d d d d d d d d d d d d d d d d d d d d d d d d d d d d d d d d d d d d d d d d d d d d d d d d d d d d d d d d d d d d d d d d d d d d d d d d d d d d d d d d d d d d 
+d d d d d d d d d d d d d d d d d d d d d d d d d d d d d d d d d d d d d d d d d d d d d d d d d d d d d d d d d d d d d d d d d d d d d d d d d d d d d d d d d d d d d d d d d d d d d d d d d d d d d d d d d d d d d d d d d d d d d d d d d d d d d d d d d d d d d d d d d d d d d d d d d d d d d d d d d d d d d d d d 
+d d d d d d d d d d d d d d d d d d d d d d d d d d d d d d d d d d d d d d d d d d d d d d d d d d d d d d d d d d d d d d d d d d d d d d d d d d d d d d d d d d d d d d d d d d d d d d d d d d d d d d d d d d d d d d d d d d d d d d d d d d d d d d d d d d d d d d d d d d d d d d d d d d d d d d d d d d d d d d d d 
+d d d d d d d d d d d d d d d d d d d d d d d d d d d d d d d d d d d d d d d d d d d d d d d d d d d d d d d d d d d d d d d d d d d d d d d d d d d d d d d d d d d d d d d d d d d d d d d d d d d d d d d d d d d d d d d d d d d d d d d d d d d d d d d d d d d d d d d d d d d d d d d d d d d d d d d d d d d d d d d d 
+d d d d d d d d d d d d d d d d d d d d d d d d d d d d d d d d d d d d d d d d d d d d d d d d d d d d d d d d d d d d d d d d d d d d d d d d d d d d d d d d d d d d d d d d d d d d d d d d d d d d d d d d d d d d d d d d d d d d d d d d d d d d d d d d d d d d d d d d d d d d d d d d d d d d d d d d d d d d d d d d 
+d d d d d d d d d d d d d d d d d d d d d d d d d d d d d d d d d d d d d d d d d d d d d d d d d d d d d d d d d d d d d d d d d d d d d d d d d d d d d d d d d d d d d d d d d d d d d d d d d d d d d d d d d d d d d d d d d d d d d d d d d d d d d d d d d d d d d d d d d d d d d d d d d d d d d d d d d d d d d d d d 
+d d d d d d d d d d d d d d d d d d d d d d d d d d d d d d d d d d d d d d d d d d d d d d d d d d d d d d d d d d d d d d d d d d d d d d d d d d d d d d d d d d d d d d d d d d d d d d d d d d d d d d d d d d d d d d d d d d d d d d d d d d d d d d d d d d d d d d d d d d d d d d d d d d d d d d d d d d d d d d d d 
+d d d d d d d d d d d d d d d d d d d d d d d d d d d d d d d d d d d d d d d d d d d d d d d d d d d d d d d d d d d d d d d d d d d d d d d d d d d d d d d d d d d d d d d d d d d d d d d d d d d d d d d d d d d d d d d d d d d d d d d d d d d d d d d d d d d d d d d d d d d d d d d d d d d d d d d d d d d d d d d d 
+d d d d d d d d d d d d d d d d d d d d d d d d d d d d d d d d d d d d d d d d d d d d d d d d d d d d d d d d d d d d d d d d d d d d d d d d d d d d d d d d d d d d d d d d d d d d d d d d d d d d d d d d d d d d d d d d d d d d d d d d d d d d d d d d d d d d d d d d d d d d d d d d d d d d d d d d d d d d d d d d 
+`)
 tiles.setTilemap(tiles.createTilemap(
-            hex`1000100001010101040101010101010101010103010101010101010301010101010401010101020101010101010101020101010101010101010101010101010101010101040101010101010101010103010101010101010101010201010101010101010101010101010101040101010101010101010101010101010101010104010101020101020101010101010101010101010101010101010101010201010101010101010101010101010101010101010301010101010104010101010101010101010101010101010103010101010101010101010201010101010101040101010102010101010101010101010101010101040104010101010101010102010101010101`,
[1 lines of base64/hex data omitted]
             img`
-. . . . . . . . . . . . . . . . 
-. . . . . . . . . . . . . . . . 
-. . . . . . . . . . . . . . . . 
-. . . . . . . . . . . . . . . . 
-. . . . . . . . . . . . . . . . 
-. . . . . . . . . . . . . . . . 
-. . . . . . . . . . . . . . . . 
-. . . . . . . . . . . . . . . . 
-. . . . . . . . . . . . . . . . 
-. . . . . . . . . . . . . . . . 
-. . . . . . . . . . . . . . . . 
-. . . . . . . . . . . . . . . . 
-. . . . . . . . . . . . . . . . 
-. . . . . . . . . . . . . . . . 
-. . . . . . . . . . . . . . . . 
-. . . . . . . . . . . . . . . . 
+2 2 2 2 2 2 2 . . 2 2 2 2 2 2 2 2 2 2 2 2 2 2 . . 2 2 2 2 2 2 2 2 2 2 2 2 2 2 . . 2 2 2 2 2 2 2 
+2 2 2 2 2 2 2 . . 2 2 2 2 2 2 2 2 2 2 2 2 2 2 . . 2 2 2 2 2 2 2 2 2 2 2 2 2 2 . . 2 2 2 2 2 2 2 
+2 2 2 2 2 2 2 . . 2 2 2 2 2 2 2 2 2 2 2 2 2 2 . . 2 2 2 2 2 2 2 2 2 2 2 2 2 2 . . 2 2 2 2 2 2 2 
+2 2 2 2 2 2 2 . . 2 2 2 2 2 2 2 2 2 2 2 2 2 2 . . 2 2 2 2 2 2 2 2 2 2 2 2 2 2 . . 2 2 2 2 2 2 2 
+2 2 2 2 2 2 2 . . 2 2 2 2 2 2 2 2 2 2 2 2 2 2 . . 2 2 2 2 2 2 2 2 2 2 2 2 2 2 . . 2 2 2 2 2 2 2 
+2 2 2 2 2 2 2 . . 2 2 2 2 2 2 2 2 2 2 2 2 2 2 . . 2 2 2 2 2 2 2 2 2 2 2 2 2 2 . . 2 2 2 2 2 2 2 
+2 2 2 2 2 2 2 . . 2 2 2 2 2 2 2 2 2 2 2 2 2 2 . . 2 2 2 2 2 2 2 2 2 2 2 2 2 2 . . 2 2 2 2 2 2 2 
+2 2 2 2 2 2 2 . . 2 2 2 2 2 2 2 2 2 2 2 2 2 2 . . 2 2 2 2 2 2 2 2 2 2 2 2 2 2 . . 2 2 2 2 2 2 2 
+2 2 2 2 2 2 2 . . 2 2 2 2 2 2 2 2 2 2 2 2 2 2 . . 2 2 2 2 2 2 2 2 2 2 2 2 2 2 . . 2 2 2 2 2 2 2 
+2 2 2 2 2 2 2 . . 2 2 2 2 2 2 2 2 2 2 2 2 2 2 . . 2 2 2 2 2 2 2 2 2 2 2 2 2 2 . . 2 2 2 2 2 2 2 
+2 2 2 2 2 2 2 . . 2 2 2 2 2 2 2 2 2 2 2 2 2 2 . . 2 2 2 2 2 2 2 2 2 2 2 2 2 2 . . 2 2 2 2 2 2 2 
+2 2 2 2 2 2 2 . . 2 2 2 2 2 2 2 2 2 2 2 2 2 2 . . 2 2 2 2 2 2 2 2 2 2 2 2 2 2 . . 2 2 2 2 2 2 2 
+2 2 2 2 2 2 2 . . 2 2 2 2 2 2 2 2 2 2 2 2 2 2 . . 2 2 2 2 2 2 2 2 2 2 2 2 2 2 . . 2 2 2 2 2 2 2 
+2 2 2 2 2 2 2 . . 2 2 2 2 2 2 2 2 2 2 2 2 2 2 . . 2 2 2 2 2 2 2 2 2 2 2 2 2 2 . . 2 2 2 2 2 2 2 
+2 2 2 2 2 2 2 . . 2 2 2 2 2 2 2 2 2 2 2 2 2 2 . . 2 2 2 2 2 2 2 2 2 2 2 2 2 2 . . 2 2 2 2 2 2 2 
+2 2 2 2 2 2 2 . . 2 2 2 2 2 2 2 2 2 2 2 2 2 2 . . 2 2 2 2 2 2 2 2 2 2 2 2 2 2 . . 2 2 2 2 2 2 2 
+2 . . . . . . . . . . . . . . 2 2 . . . . . . . . . . . . . . 2 2 . . . . . . . . . . . . . . 2 
+2 . . . . . . . . . . . . . . . . . . . . . . . . . . . . . . . . . . . . . . . . . . . . . . 2 
+2 . . 2 . . . . . . . . 2 . . . . . . 2 . . . . . . . . 2 . . . . . . . . . . . . . . . . . . 2 
+2 . . . . . . . . . . . . . . . . . . . . . . . . . . . . . . . . . . . . . . . . . . . . . . 2 
+2 . . . . . . . . . . . . . . 2 2 . . . . . . . . . . . . . . 2 2 . . . . . . . . . . . . . . 2 
+2 2 2 2 2 2 2 2 2 2 2 2 2 2 2 2 2 2 2 2 2 2 2 2 2 2 2 2 2 2 2 2 2 2 2 2 2 2 2 2 2 2 2 2 2 2 2 2 
+2 2 2 2 2 2 2 2 2 2 2 2 2 2 2 2 2 2 2 2 2 2 2 2 2 2 2 2 2 2 2 2 2 2 2 2 2 2 2 2 2 2 2 2 2 2 2 2 
+2 2 2 2 2 2 2 2 2 2 2 2 2 2 2 2 2 2 2 2 2 2 2 2 2 2 2 2 2 2 2 2 2 2 2 2 2 2 2 2 2 2 2 2 2 2 2 2 
 `,
-            [myTiles.tile0,myTiles.tile1,sprites.castle.tileGrass1,sprites.castle.tileGrass3,sprites.castle.tileGrass2],
+            [myTiles.tile0,myTiles.tile1,sprites.castle.tileGrass1,sprites.castle.tileGrass3,sprites.castle.tileGrass2,sprites.castle.tilePath7,sprites.castle.tilePath9,sprites.castle.tilePath8,sprites.castle.tilePath4,sprites.castle.tilePath1,sprites.castle.tilePath2,sprites.castle.tilePath3,sprites.castle.tilePath6,sprites.castle.tilePath5,sprites.castle.saplingPine,sprites.builtin.coral5,sprites.builtin.coral0,sprites.builtin.coral1,sprites.builtin.coral2,sprites.builtin.forestTiles0,sprites.builtin.forestTiles22,sprites.castle.tileDarkGrass2,sprites.builtin.coral4,myTiles.tile2,sprites.dungeon.stairWest,sprites.dungeon.greenOuterWest1,sprites.dungeon.greenOuterNorthWest,sprites.dungeon.greenOuterNorth0,sprites.dungeon.greenOuterNorthEast,sprites.dungeon.greenOuterEast0,sprites.dungeon.greenOuterWest0,sprites.dungeon.greenOuterSouthEast,sprites.dungeon.greenOuterSouth0,sprites.dungeon.greenOuterSouthWest,sprites.dungeon.greenOuterNorth1,sprites.dungeon.greenOuterEast1,sprites.dungeon.greenOuterSouth1,sprites.dungeon.greenOuterNorth2,sprites.dungeon.greenOuterSouth2,sprites.dungeon.greenOuterEast2,sprites.dungeon.floorLight0,sprites.dungeon.darkGroundCenter,sprites.dungeon.doorLockedNorth,sprites.dungeon.darkGroundSouthEast1,sprites.dungeon.darkGroundSouthWest1,myTiles.tile3],
             TileScale.Sixteen
         ))
-tiles.placeOnTile(Cat, tiles.getTileLocation(0, 0))
+tiles.placeOnTile(Cat, tiles.getTileLocation(5, 18))
 scene.cameraFollowSprite(Cat)
 game.onUpdateInterval(100, function () {
     if (Cat.vx != 0) {
